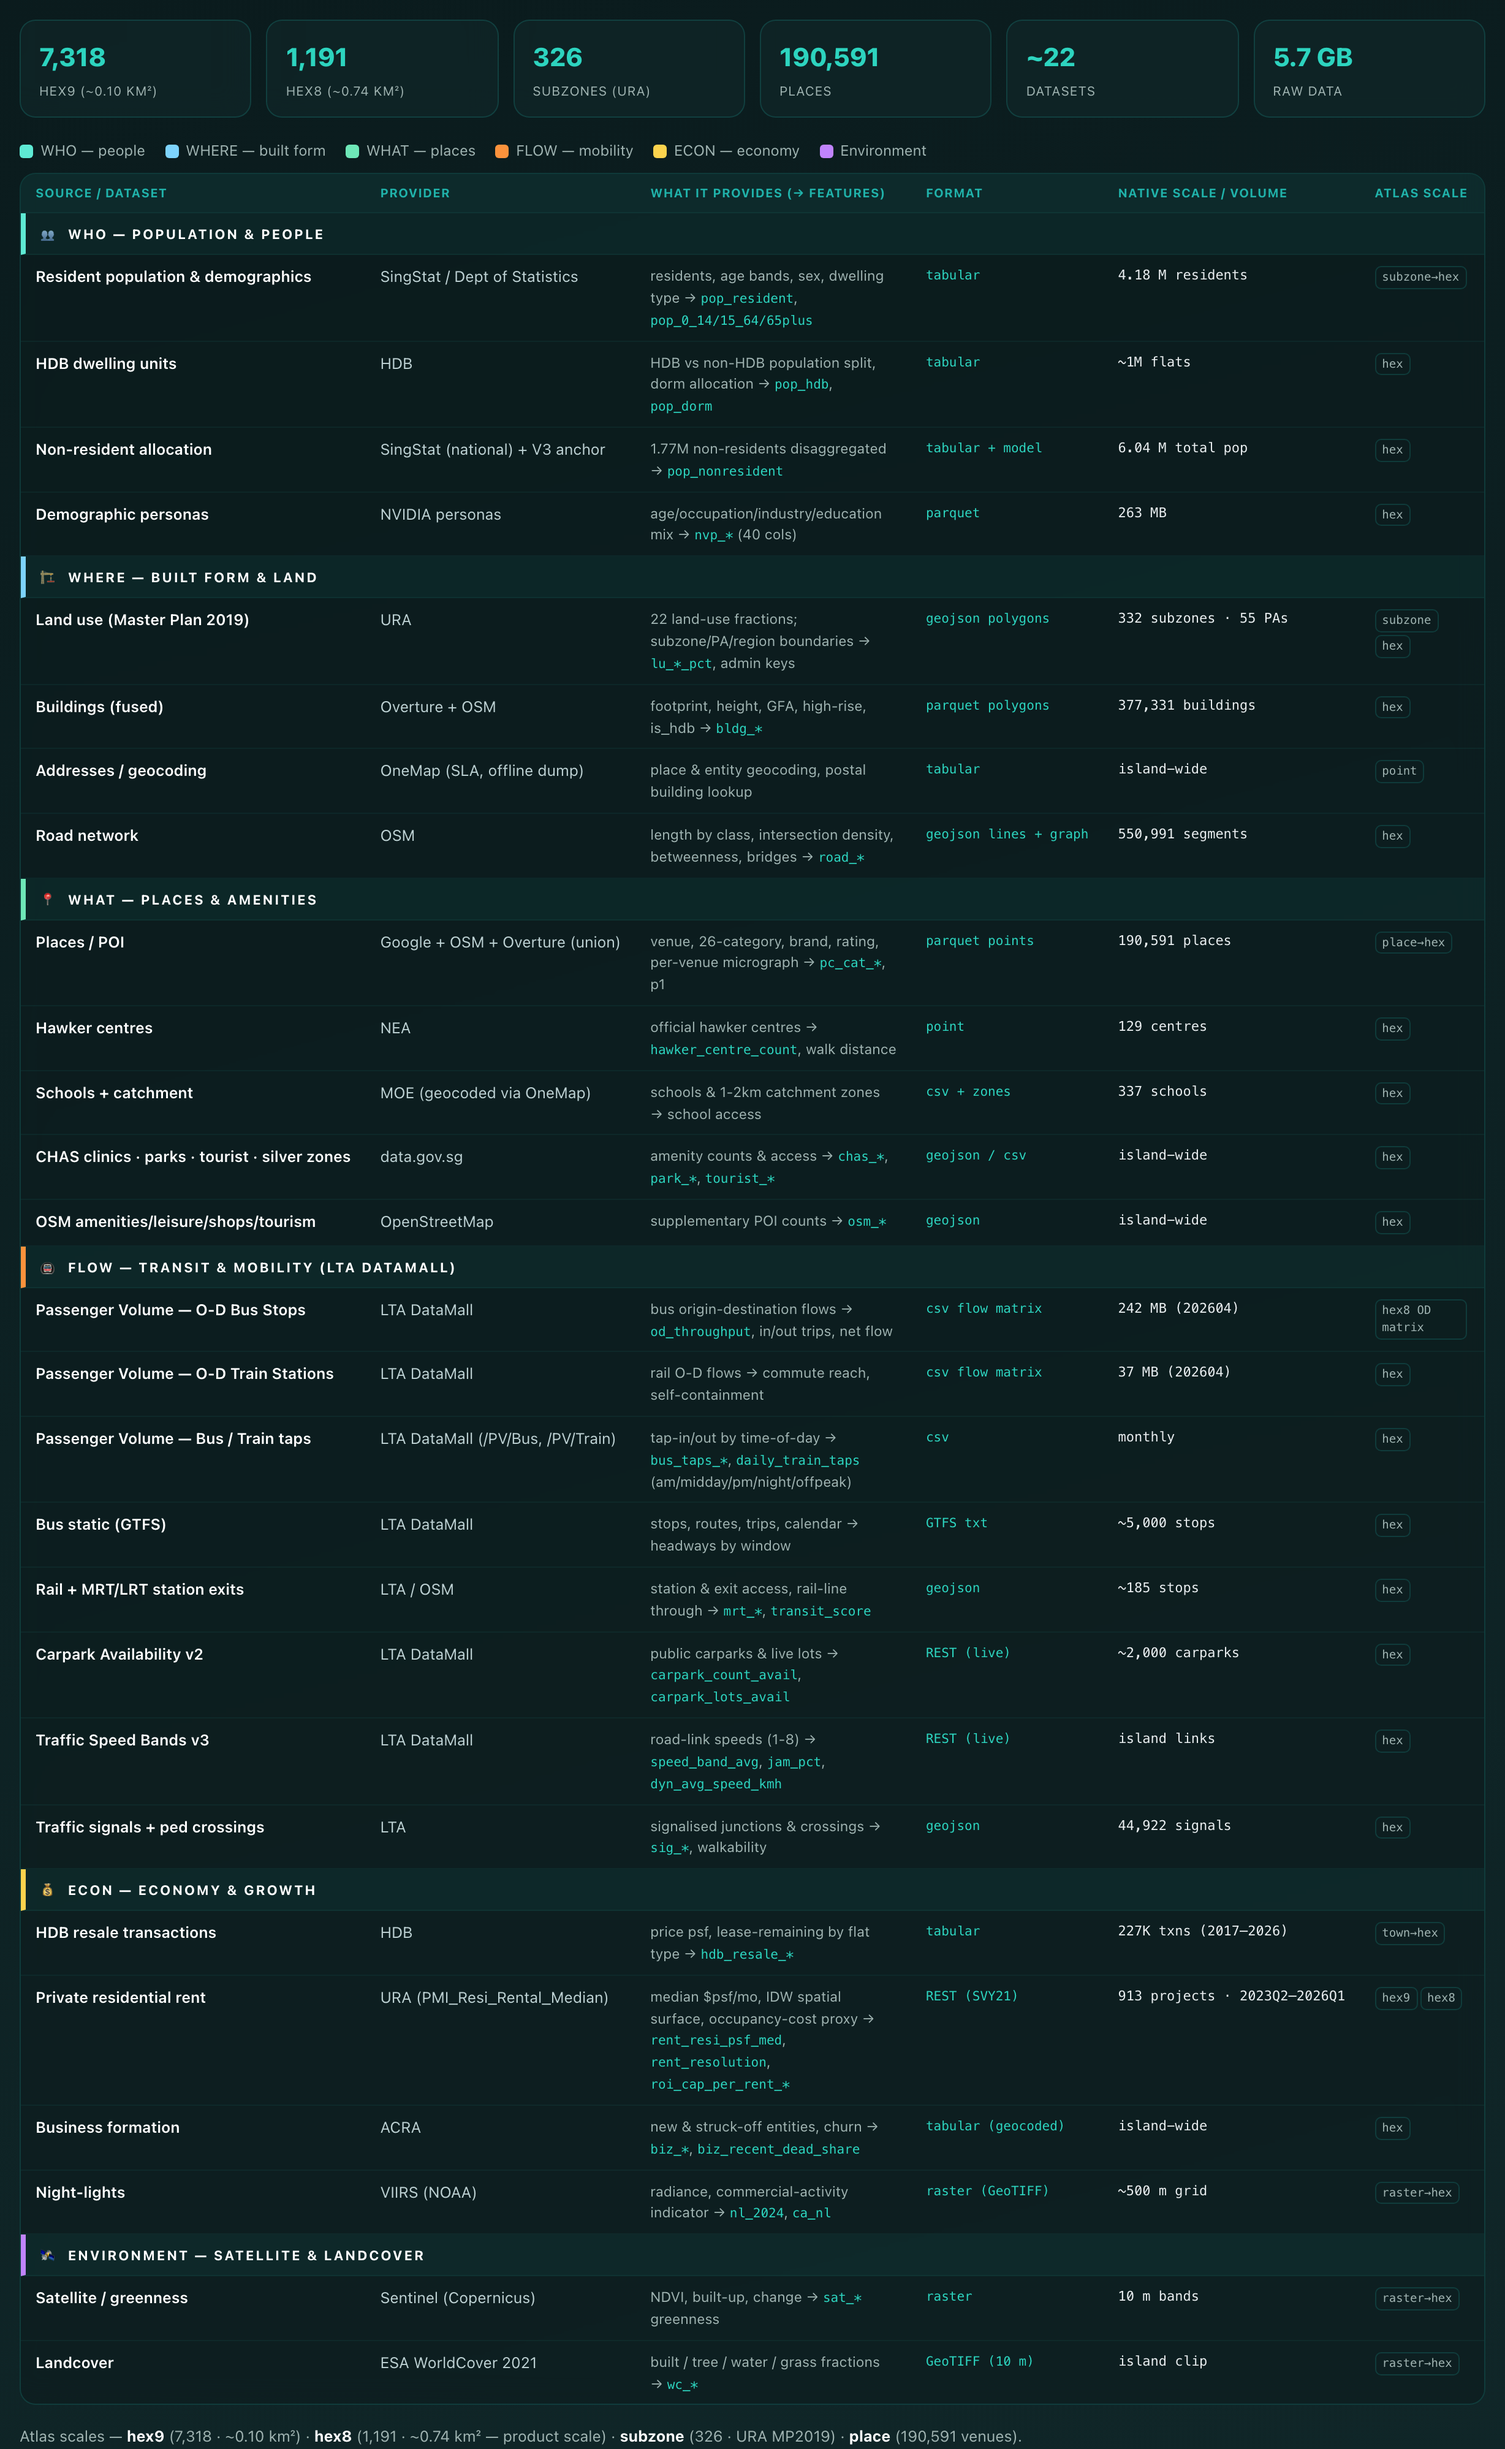
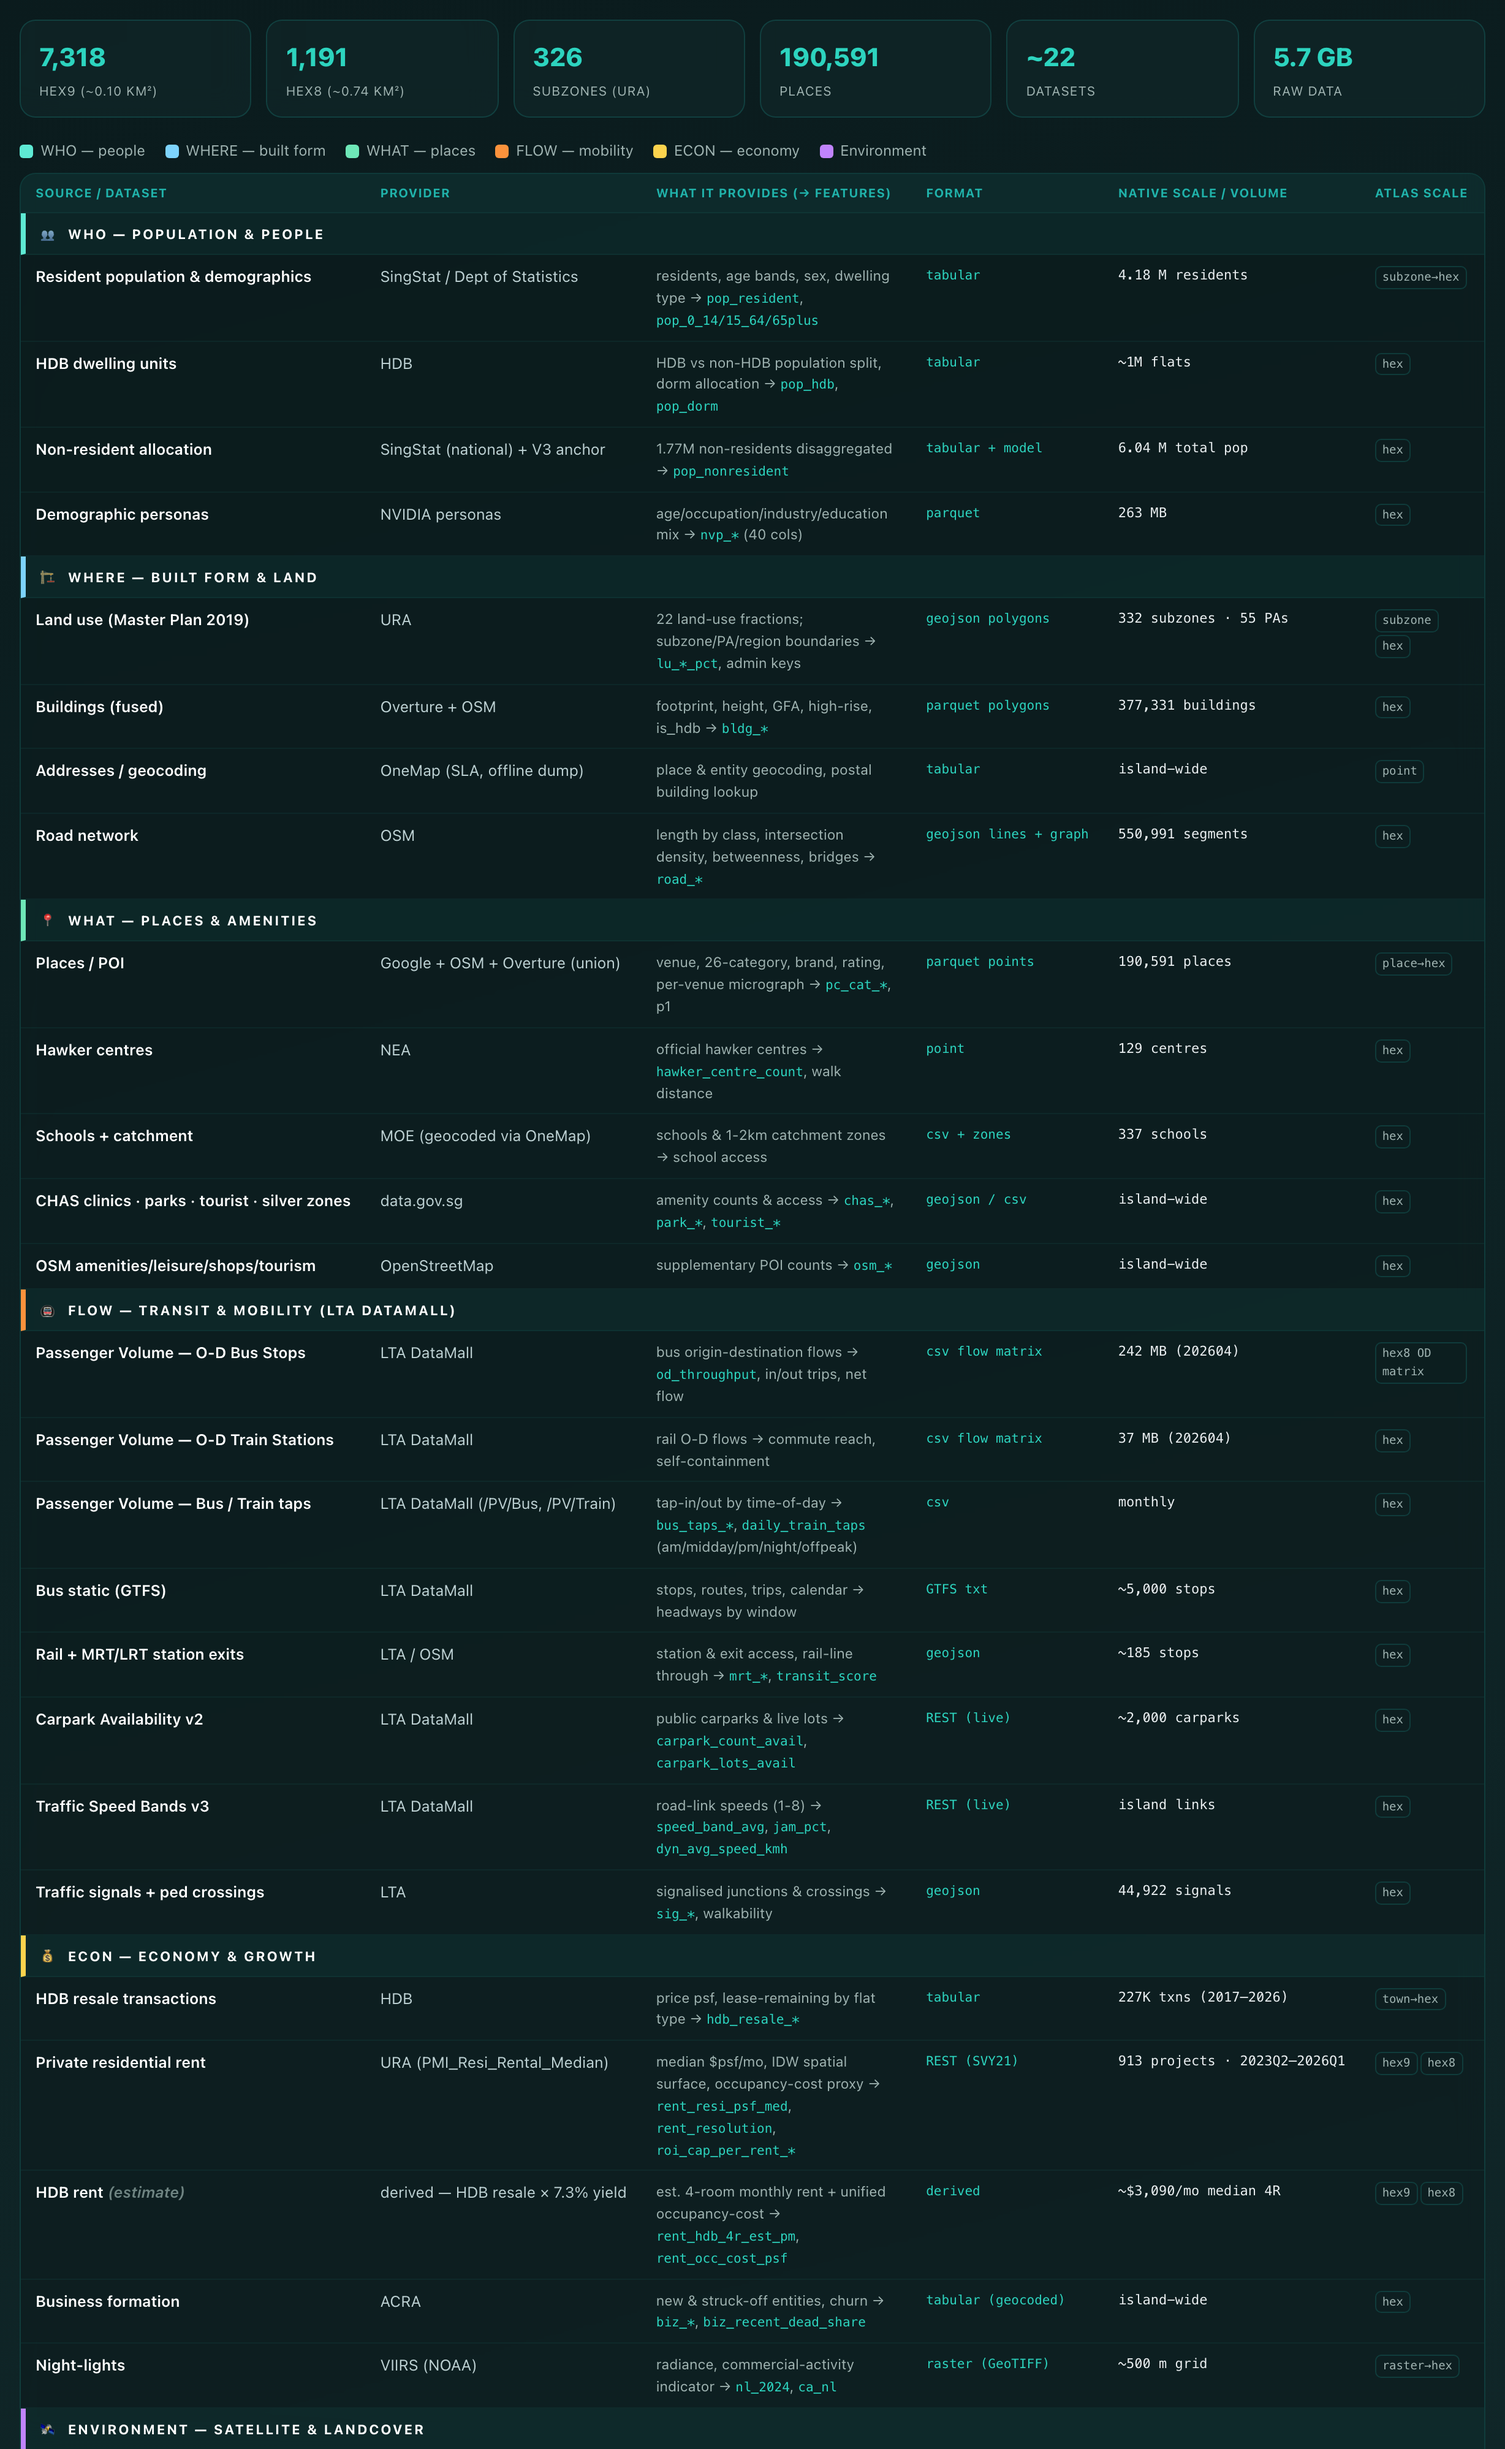
atlas v5.7.1: HDB rent estimate + unified occupancy-cost (hex9 + hex8)
- rent_hdb_4r_est_pm = HDB resale_4r_price x 7.3% gross yield / 12 (calibrated
  ~$3,090/mo median 4R, range $2,634-$5,080) — ESTIMATE, flagged
- rent_occ_cost_psf = real private rent where observed, HDB est elsewhere;
  rent_occ_cost_source = private_observed/hdb_estimate/none
- masters hex9 593->597, hex8 842->846; manifest v5.7.1; catalogs refreshed
- known-answer PASS: top Outram/Museum/Downtown Core, bottom Woodlands/Yishun/JW
- DATA_SOURCES +HDB row + PNG re-rendered. Real HDB feed = follow-up (data.gov.sg)

diff --git a/plexis-sgp-v5/showcase/DATA_SOURCES.html b/plexis-sgp-v5/showcase/DATA_SOURCES.html
@@ -115,6 +115,7 @@ tr:last-child td{border-bottom:none}tbody tr:hover td{background:rgba(32,178,170
     <tr class="grp" style="--g:var(--econ)"><td colspan="6"><span class="gi">💰</span>ECON — economy &amp; growth</td></tr>
     <tr><td class="src">HDB resale transactions</td><td class="prov">HDB</td><td class="col">price psf, lease-remaining by flat type → <code>hdb_resale_*</code></td><td class="fmt">tabular</td><td class="vol">227K txns (2017–2026)</td><td class="sc"><span class="scc">town→hex</span></td></tr>
     <tr><td class="src">Private residential rent</td><td class="prov">URA (PMI_Resi_Rental_Median)</td><td class="col">median $psf/mo, IDW spatial surface, occupancy-cost proxy → <code>rent_resi_psf_med</code>, <code>rent_resolution</code>, <code>roi_cap_per_rent_*</code></td><td class="fmt">REST (SVY21)</td><td class="vol">913 projects · 2023Q2–2026Q1</td><td class="sc"><span class="scc">hex9</span><span class="scc">hex8</span></td></tr>
+    <tr><td class="src">HDB rent <i style="color:var(--t3)">(estimate)</i></td><td class="prov">derived — HDB resale × 7.3% yield</td><td class="col">est. 4-room monthly rent + unified occupancy-cost → <code>rent_hdb_4r_est_pm</code>, <code>rent_occ_cost_psf</code></td><td class="fmt">derived</td><td class="vol">~$3,090/mo median 4R</td><td class="sc"><span class="scc">hex9</span><span class="scc">hex8</span></td></tr>
     <tr><td class="src">Business formation</td><td class="prov">ACRA</td><td class="col">new &amp; struck-off entities, churn → <code>biz_*</code>, <code>biz_recent_dead_share</code></td><td class="fmt">tabular (geocoded)</td><td class="vol">island-wide</td><td class="sc"><span class="scc">hex</span></td></tr>
     <tr><td class="src">Night-lights</td><td class="prov">VIIRS (NOAA)</td><td class="col">radiance, commercial-activity indicator → <code>nl_2024</code>, <code>ca_nl</code></td><td class="fmt">raster (GeoTIFF)</td><td class="vol">~500 m grid</td><td class="sc"><span class="scc">raster→hex</span></td></tr>
 

diff --git a/plexis-sgp-v5/places_fix/build_hdb_rent_est.py b/plexis-sgp-v5/places_fix/build_hdb_rent_est.py
@@ -1,0 +1,37 @@
+"""HDB rent ESTIMATE (resale x calibrated gross-yield) at hex9 + hex8 + unified
+occupancy-cost (real private rent where available, HDB estimate elsewhere)."""
+import pandas as pd, numpy as np, json, time, subprocess
+from pathlib import Path
+ROOT=Path("/home/azureuser/da-sgp/v5")
+YIELD=0.073          # calibrated so median 4-room rent ~ $3,100/mo (realistic 2024-25)
+SQFT_4R=969.0        # ~90 sqm 4-room
+res={}
+for scale,key in [("hex9","hex9_id"),("hex8","hex8_id")]:
+    m=pd.read_parquet(ROOT/f"hex/{scale}_all_features.parquet")
+    price=m["hdb_resale_4r_median_price"].replace(0,np.nan)
+    rent4r=(price*YIELD/12).round(0)
+    hdb_psf=(rent4r/SQFT_4R).round(3)
+    resi=m["rent_resi_psf_med"]
+    occ=resi.where(resi.notna(), hdb_psf).round(3)
+    src=np.where(resi.notna(),"private_observed",np.where(hdb_psf.notna(),"hdb_estimate","none"))
+    for c in ["rent_hdb_4r_est_pm","rent_hdb_est_psf","rent_occ_cost_psf","rent_occ_cost_source"]:
+        if c in m.columns: m=m.drop(columns=[c])
+    m["rent_hdb_4r_est_pm"]=rent4r; m["rent_hdb_est_psf"]=hdb_psf
+    m["rent_occ_cost_psf"]=occ; m["rent_occ_cost_source"]=src
+    m.to_parquet(ROOT/f"hex/{scale}_all_features.parquet",index=False)
+    res[scale]={"hdb_rent_nonnull":int(rent4r.notna().sum()),"occ_cost_covered":int((src!="none").sum()),"n":len(m),"cols":m.shape[1]}
+    print(f"[{scale}] HDB rent est {int(rent4r.notna().sum())} | occ-cost {int((src!='none').sum())}/{len(m)} | master {m.shape[1]} cols",flush=True)
+m=pd.read_parquet(ROOT/"hex/hex8_all_features.parquet")
+t=m.groupby("parent_pa")["rent_hdb_4r_est_pm"].median().dropna().sort_values()
+print("KNOWN-ANSWER top HDB 4r rent PA:",{k:int(v) for k,v in t.tail(5).items()},flush=True)
+print("KNOWN-ANSWER bottom:",{k:int(v) for k,v in t.head(5).items()},flush=True)
+print("median 4r rent est: $%d/mo | range $%d-$%d"%(m.rent_hdb_4r_est_pm.median(),m.rent_hdb_4r_est_pm.min(),m.rent_hdb_4r_est_pm.max()),flush=True)
+json.dump({"version":"5.7.1","generated_at":time.strftime("%Y-%m-%dT%H:%M:%S"),
+  "change":"HDB rent ESTIMATE (resale x %.1f%% yield) + unified occupancy-cost, hex9+hex8"%(YIELD*100),
+  "detail":{"method":"rent_hdb_4r_est_pm = hdb_resale_4r_median_price x %.3f / 12; calibrated to ~$3,100/mo median"%YIELD,
+            "new_cols":["rent_hdb_4r_est_pm","rent_hdb_est_psf","rent_occ_cost_psf","rent_occ_cost_source"],
+            "shapes":res,"note":"ESTIMATE not observed HDB rent; real data.gov.sg feed = follow-up"}},
+  open(ROOT/"CHECKPOINT_v5.7.1.json","w"),indent=2)
+subprocess.run(["python3","build_catalog_json.py"],cwd=ROOT,capture_output=True,text=True)
+subprocess.run(["python3","build_catalogs_v56.py"],cwd=ROOT,capture_output=True,text=True)
+print("manifest:",json.load(open(ROOT/"catalog/atlas_manifest.json"))["version"],flush=True)

diff --git a/plexis-sgp-v5/places_fix/build_catalogs_v56.py b/plexis-sgp-v5/places_fix/build_catalogs_v56.py
@@ -79,6 +79,10 @@ CURATED_NEW = {
  "pc_cat_automated_kiosk": "Count of unmanned automated points (vending/locker/AXS) in cell",
  "brand_norm": "Canonical chain brand (null = independent or unresolved)",
  "brand_source": "How brand was resolved (scrape / dict / llm)",
+ "rent_hdb_4r_est_pm": "Estimated HDB 4-room monthly rent ($/mo) = resale price × 7.3% gross yield ÷ 12 (ESTIMATE, not observed)",
+ "rent_hdb_est_psf": "Estimated HDB rent $psf/mo (4-room est ÷ 969 sqft) — comparable to private rent_resi_psf",
+ "rent_occ_cost_psf": "Unified occupancy-cost $psf/mo — real private rent where observed, else HDB estimate",
+ "rent_occ_cost_source": "private_observed | hdb_estimate | none",
 }
 def describe(col):
     if col in desc_map and isinstance(desc_map[col], str) and desc_map[col].strip(): return desc_map[col]

diff --git a/plexis-sgp-v5/catalog/feature_catalog.md b/plexis-sgp-v5/catalog/feature_catalog.md
@@ -1,9 +1,9 @@
-# Plexis SGP — Feature Catalog (v5.7.0)
+# Plexis SGP — Feature Catalog (v5.7.1)
 
-*1921 columns across 5 master datasets · 2026-06-21T09:33:38*
+*1929 columns across 5 master datasets · 2026-06-21T11:28:59*
 
 
-## hex8_all_features (842 cols)
+## hex8_all_features (846 cols)
 
 | Column | Description | Type | Range/μ or sample |
 |---|---|---|---|
@@ -849,8 +849,12 @@
 | `roi_cap_per_rent_restaurant` | cap_restaurant / rent_resi_psf_med — opportunity per occupancy-cost proxy (rank heuristic). NaN where no rent | float64 | 0.0012–1.1234 (μ 0.3036) |
 | `roi_cap_per_rent_shopping_retail` | cap_shopping_retail / rent_resi_psf_med — opportunity per occupancy-cost proxy (rank heuristic). NaN where no rent | float64 | 0.0023–1.2582 (μ 0.3166) |
 | `roi_cap_per_rent_total` | cap_total / rent_resi_psf_med — opportunity per occupancy-cost proxy (rank heuristic). NaN where no rent | float64 | 0.0287–11.4337 (μ 2.7839) |
+| `rent_hdb_4r_est_pm` | Rent hdb 4r est pm | float64 | 2634.0–5080.0 (μ 3333.9474) |
+| `rent_hdb_est_psf` | Rent hdb est psf | float64 | 2.718–5.243 (μ 3.4406) |
+| `rent_occ_cost_psf` | Rent occ cost psf | float64 | 2.02–8.174 (μ 4.5238) |
+| `rent_occ_cost_source` | Rent occ cost source | object | e.g. none |
 
-## hex9_all_features (593 cols)
+## hex9_all_features (597 cols)
 
 | Column | Description | Type | Range/μ or sample |
 |---|---|---|---|
@@ -1447,6 +1451,10 @@
 | `roi_cap_per_rent_restaurant` | cap_restaurant / rent_resi_psf_med — opportunity per occupancy-cost proxy (rank heuristic). NaN where no rent | float64 | 0.0009–1.1242 (μ 0.2786) |
 | `roi_cap_per_rent_shopping_retail` | cap_shopping_retail / rent_resi_psf_med — opportunity per occupancy-cost proxy (rank heuristic). NaN where no rent | float64 | 0.0017–1.2293 (μ 0.2945) |
 | `roi_cap_per_rent_total` | cap_total / rent_resi_psf_med — opportunity per occupancy-cost proxy (rank heuristic). NaN where no rent | float64 | 0.017–11.0215 (μ 2.4671) |
+| `rent_hdb_4r_est_pm` | Rent hdb 4r est pm | float64 | 2634.0–5080.0 (μ 3323.7436) |
+| `rent_hdb_est_psf` | Rent hdb est psf | float64 | 2.718–5.243 (μ 3.4301) |
+| `rent_occ_cost_psf` | Rent occ cost psf | float64 | 2.02–8.298 (μ 4.5202) |
+| `rent_occ_cost_source` | Rent occ cost source | object | e.g. none |
 
 ## subzone_all_features (430 cols)
 
